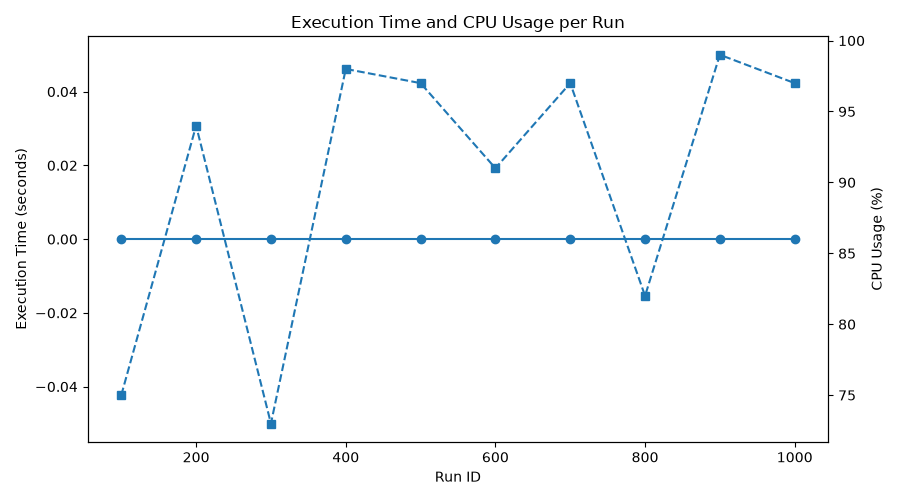
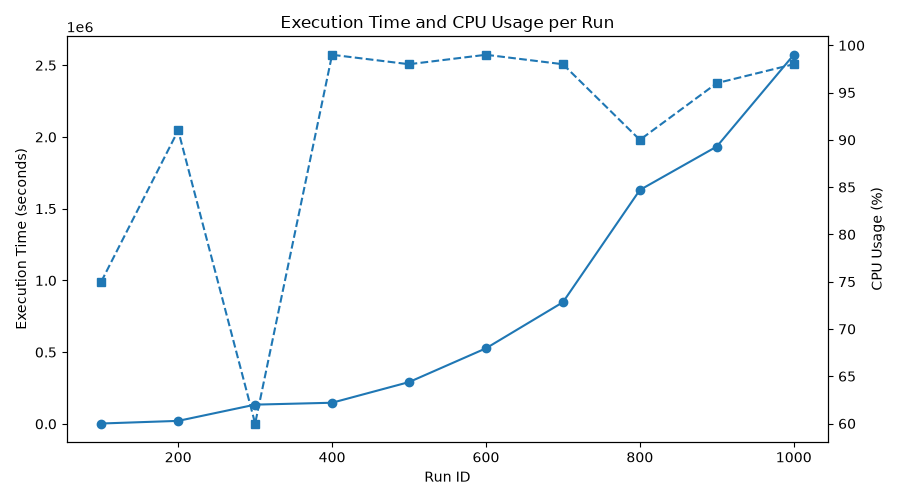
fixed time run issue now reporting proper graphs and outputs for part 1 and 2

diff --git a/matrix.c b/matrix.c
@@ -71,6 +71,6 @@ int do_job(int rows1, int cols1, int cols2, int forever) {
     free(matrix1);
     free(matrix2);
     free(result);
-    return (int)(total_time * 1000.0f);
+    return (int)(total_time * 1000000.0f);
 }
 
